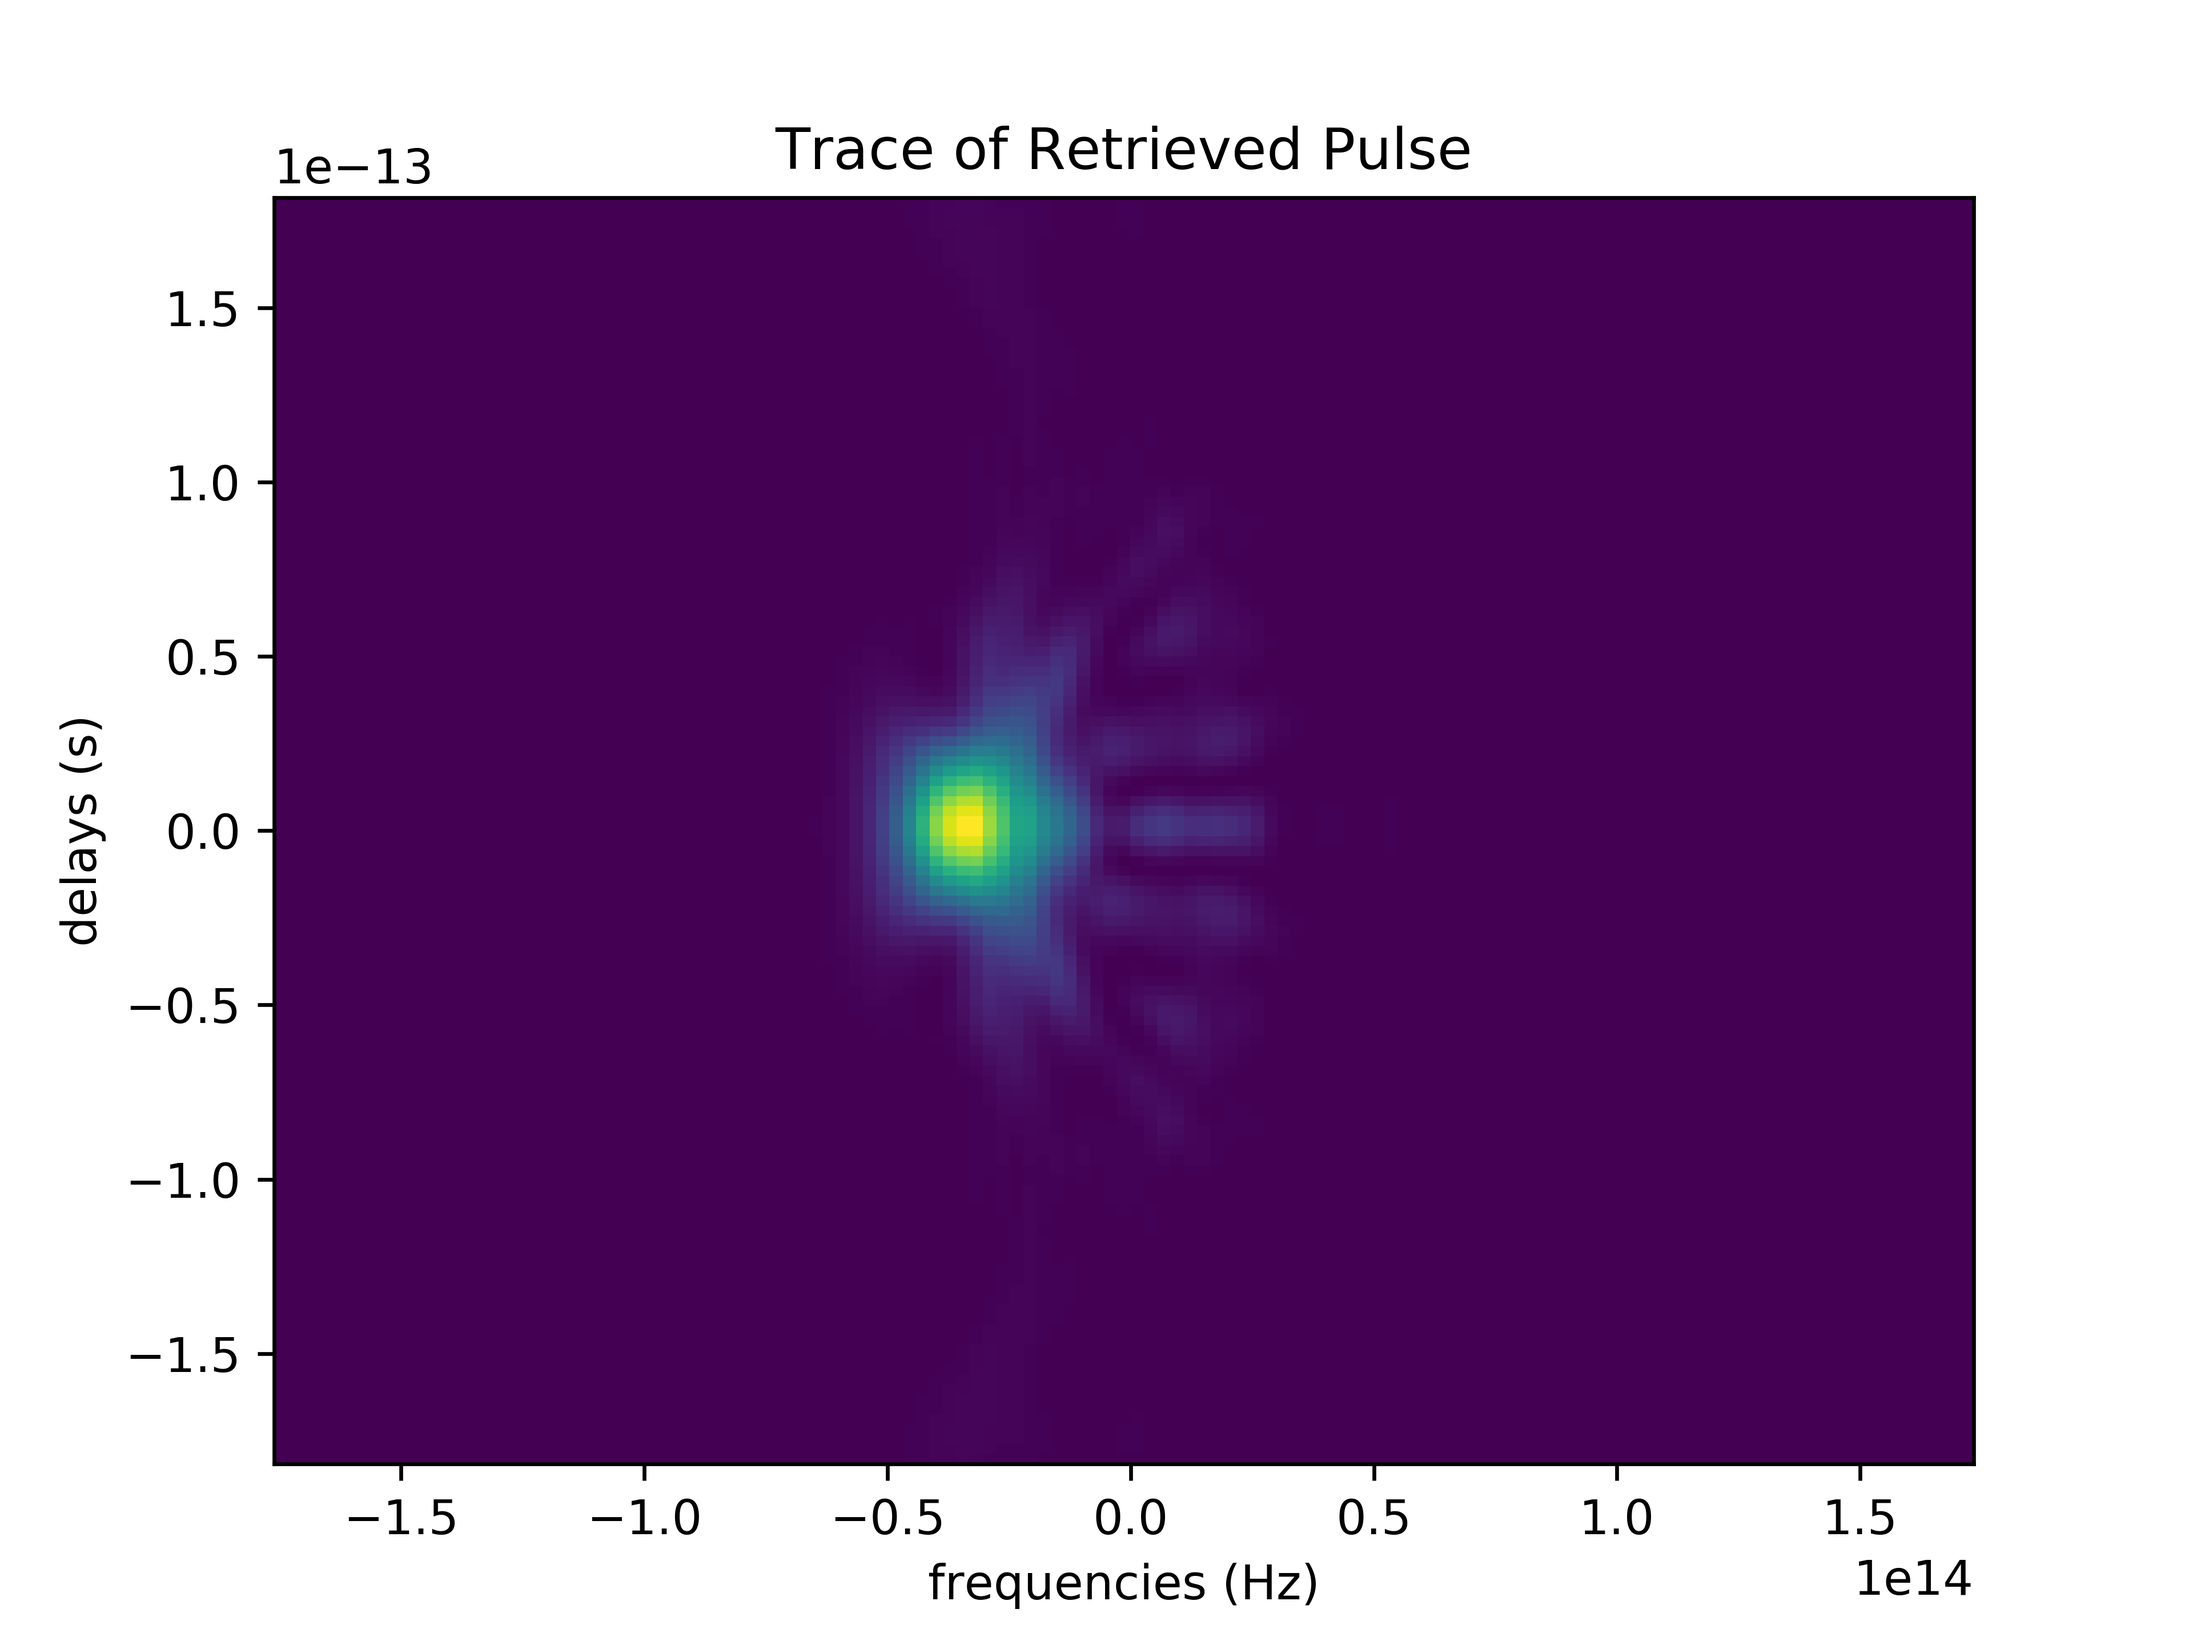
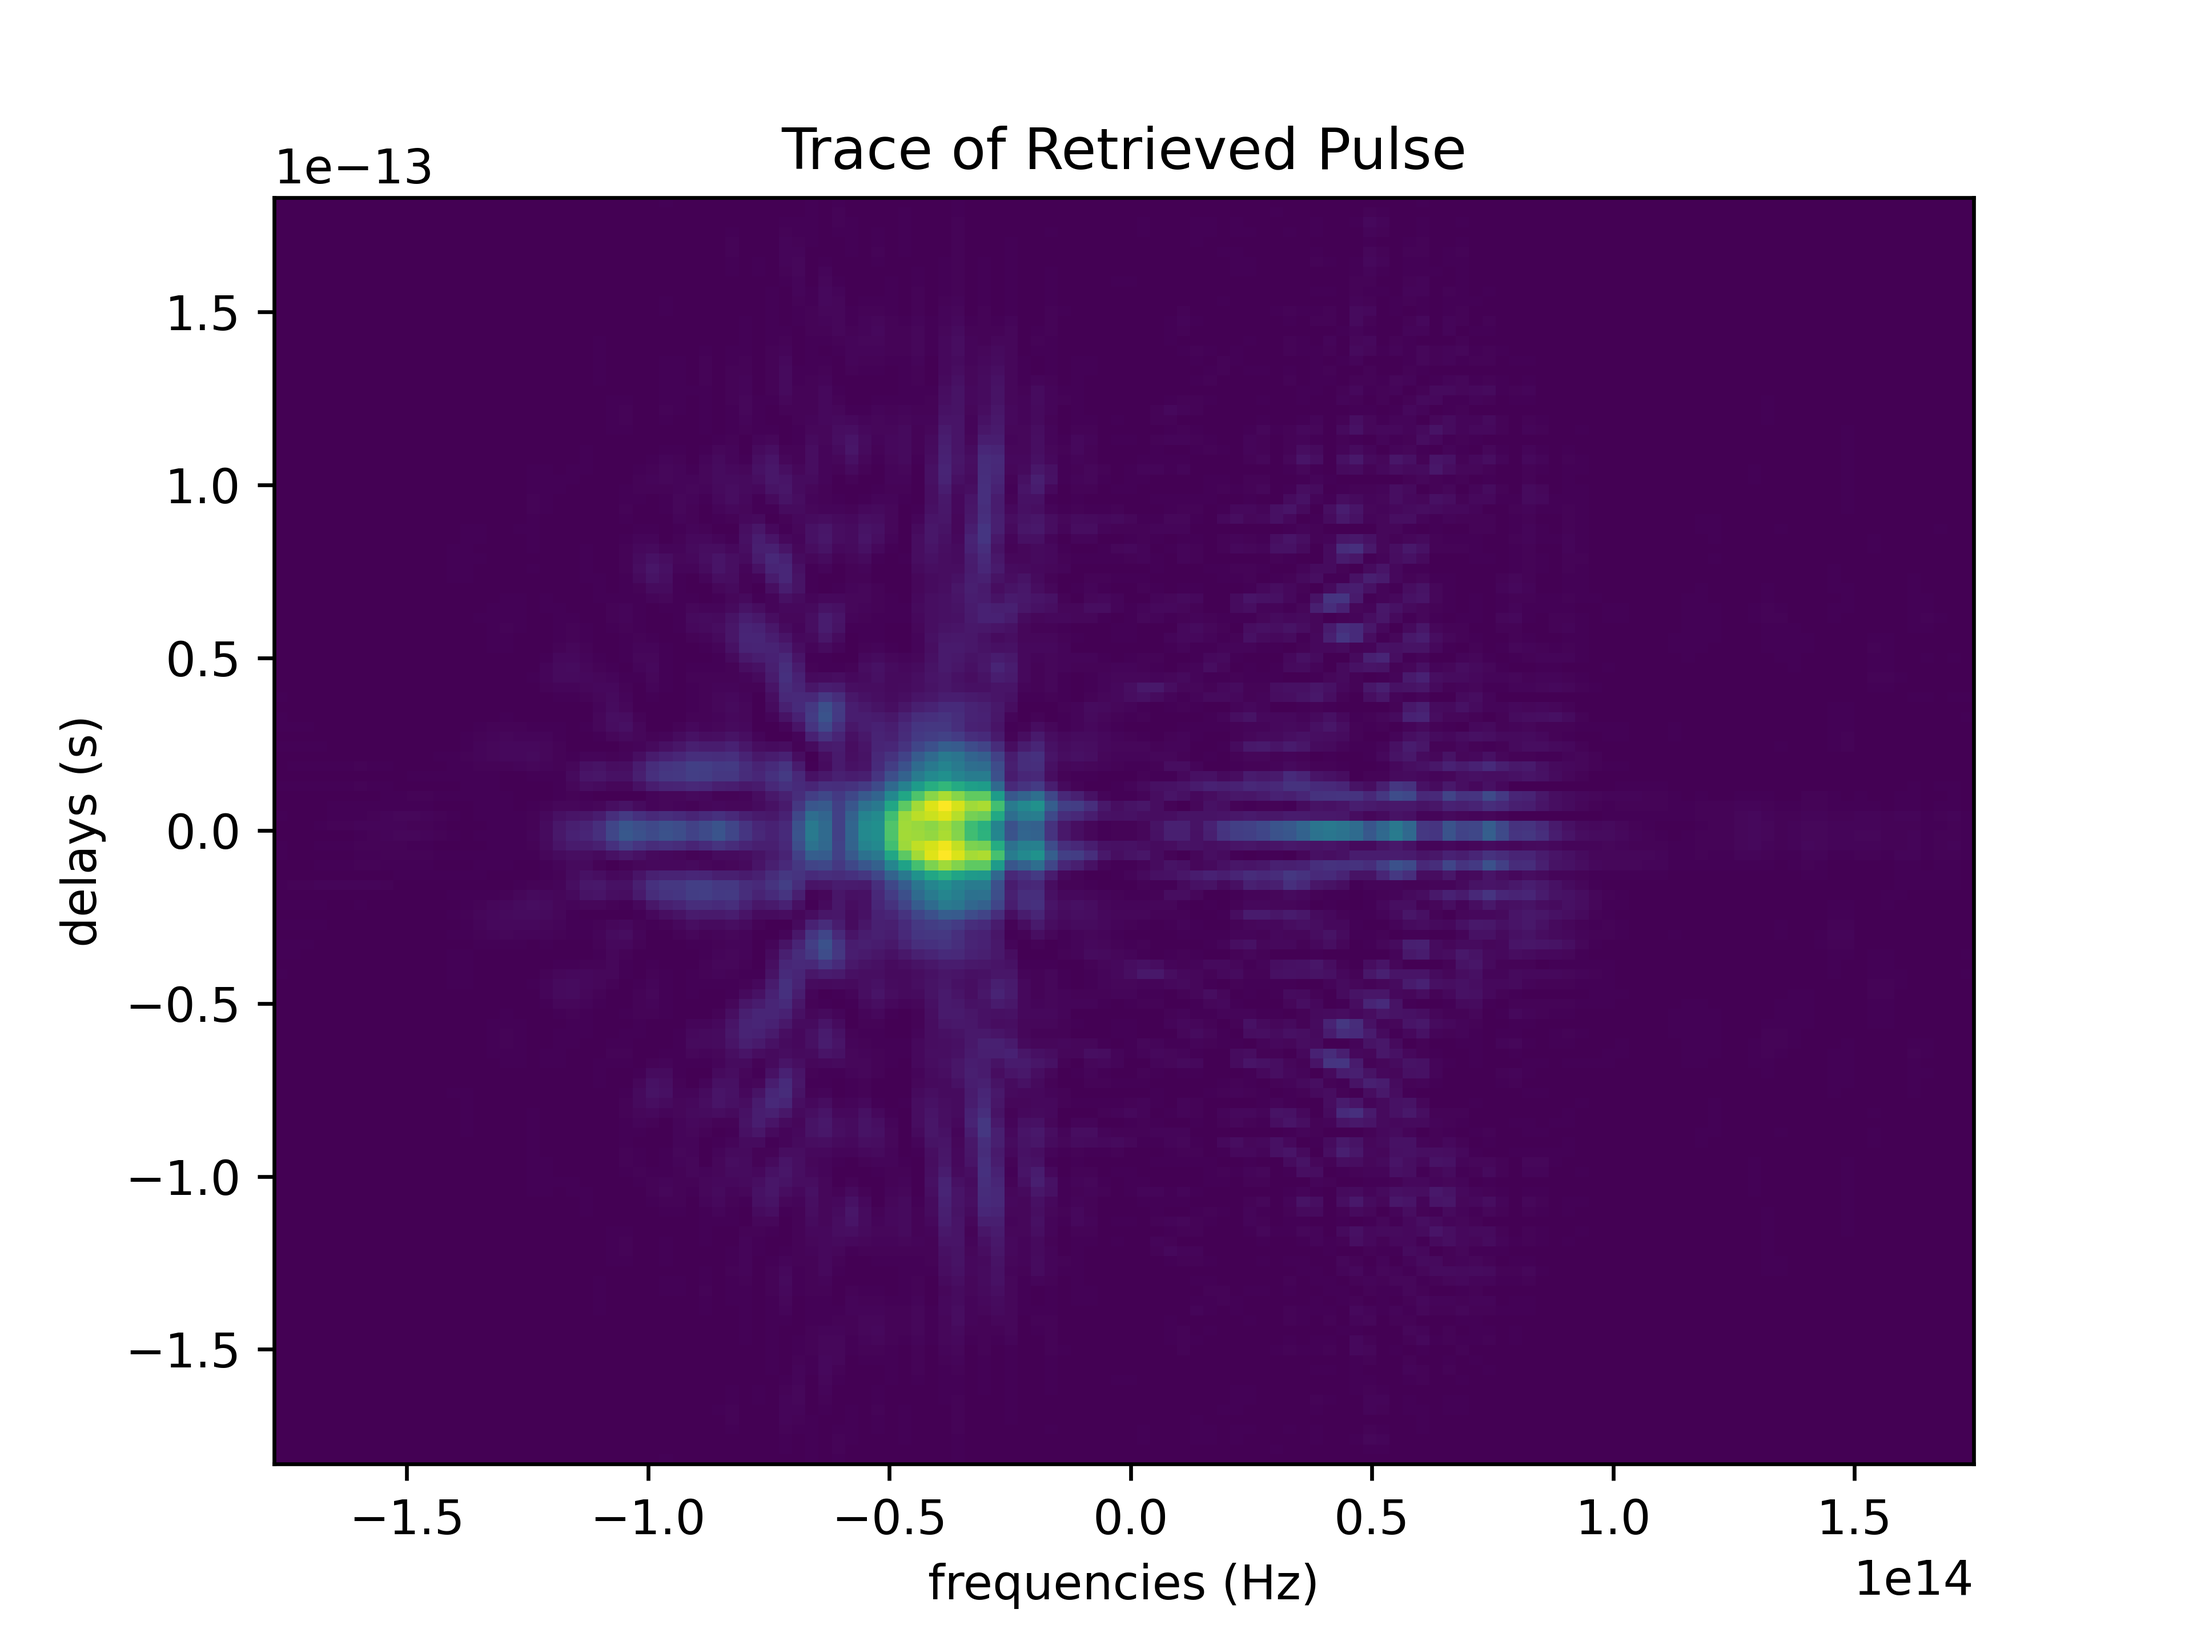
Roughed out GP algorithm

diff --git a/general_projections.py b/general_projections.py
@@ -2,6 +2,7 @@ from operator import index
 import numpy as np
 import matplotlib.pyplot as plt
 import scipy.interpolate
+import scipy.optimize
 from numpy.random import default_rng
 rng = default_rng()
 
@@ -90,28 +91,47 @@ for i in range(trace.shape[-1]):
     plt.plot(shifted_frequencies, trace[i,:])
 plt.show()
 '''
-threshold = 1.5e-3    
 
+def Z(E_new, E_sig):
+    N = len(E_new)
+    running_sum = 0.
+    for i in range(N):
+        for j in range(N):
+            residual = E_sig[j,i] - E_new[i]*E_new[i-j]
+            running_sum += residual*np.conj(residual)
+    return abs(running_sum)
+
+def grad_Z(E_old, E_sig):
+    N = len(E_old)
+    running_sum = 0.
+    for i in range(N):
+        shift_right = np.roll(E_old,-i)
+        shift_left = np.roll(E_old,i)
+        running_sum += -np.conj(E_sig[i,:])*shift_right + np.conj(E_old)*shift_right*np.conj(shift_right) \
+                       +np.conj(np.roll(E_sig[i,:],i,axis=1))*shift_left + np.conj(E_old)*shift_left*np.conj(shift_left)
+    running_sum = 2.*running_sum.real
+    return np.concatenate((running_sum, 1.j*running_sum), dtype=np.complex128)
+
+threshold = 1.5e-3    
 iterations = 30
 pulse = initial_guess
-indices = np.arange(len(delays))
 frog_errors = []
 for i in range(iterations):
     #fig, axes = plt.subplots(1, 2)
     #axes[0].plot(times, pulse.real)
     #axes[0].plot(times, pulse.imag)
-    
-    integral = np.zeros_like(pulse)
+
+    shg = np.zeros((len(delays), len(times)), dtype=np.complex128)
 
     # Iterate through lines
-    for j in indices:
+    for j in range(len(delays)):
         # Calculate SHG
         pulse_interpolator = scipy.interpolate.interp1d(times, pulse, bounds_error=False, fill_value=0.)
         gate_pulse = pulse_interpolator(times-delays[j])
-        shg = pulse*gate_pulse
+        shg[j,:] = pulse*gate_pulse
         
         # FFT(SHG)
-        shg_fft = np.fft.fftshift(np.fft.fft(shg))
+        shg_fft = np.fft.fftshift(np.fft.fft(shg[j,:]))
         #axes[0].plot(shifted_frequencies, trace[j,:])
         #axes[1].plot(shifted_frequencies, shg_fft*np.conj(shg_fft))
         
@@ -125,11 +145,14 @@ for i in range(iterations):
         shg_new = np.fft.ifft(np.fft.ifftshift(shg_fft))
         #axes[0].plot(times, abs(shg)**2)
         #axes[1].plot(times, abs(shg_new)**2)
-        integral += shg_new
+        
+        shg[j,:] = shg_new
 
-    # Update E
-    integral_norm = np.sum((integral*np.conj(integral))**0.5)
-    pulse = integral/integral_norm
+    ## Update E
+    # First calculate Z gradient
+    flattened_pulse = np.concatenate((pulse.real, 1.j*pulse.imag))
+    scipy.optimize.line_search(Z, grad_Z, flattened_pulse, -grad_Z(pulse, shg)) #TODO: CHECK THIS, MAY NOT WORK AS EXPECTED
+    input()
 
     #plt.imshow(calc_trace(pulse, delays))
     #plt.show()    

diff --git a/pypret_retrieval.py b/pypret_retrieval.py
@@ -18,12 +18,10 @@ time_pixels = data.shape[0]
 spectrum_pixels = data.shape[1]
 
 delays = np.loadtxt(folder+'processed_data_delays.tsv')
-image_angular_frequencies = np.loadtxt(folder+'processed_data_ang_freqs.tsv')
+image_angular_frequencies = 2.*np.pi*np.loadtxt(folder+'processed_data_freqs.tsv')
 
 if time_pixels != len(delays) or spectrum_pixels != len(image_angular_frequencies):
     raise ValueError('Dimensions of input image must match axis dimensions')
-
-print(image_angular_frequencies[0], image_angular_frequencies[-1])
 
 if spectrum_provided:
     spectral_intensity = np.loadtxt(folder+'processed_spectrum.tsv')
@@ -57,8 +55,6 @@ angular_frequencies = image_angular_frequencies - 2.*central_angular_frequency
 # The FT grid is meant to be centered at zero in w space?
 #TODO: The w0 should not need to be set. Something is wrong... the frequencies I get are off center
 ft = pypret.FourierTransform(len(angular_frequencies), dw=angular_frequencies[1]-angular_frequencies[0], w0=angular_frequencies[0])
-print(len(ft.t), ft.t[0], ft.t[-1], len(ft.w), ft.w[0], ft.w[-1])
-input()
 # instantiate a pulse object, angular frequency in rad/s
 #TODO: Consider leaving input in wavelength
 pulse = pypret.Pulse(ft, central_angular_frequency, unit='om')
